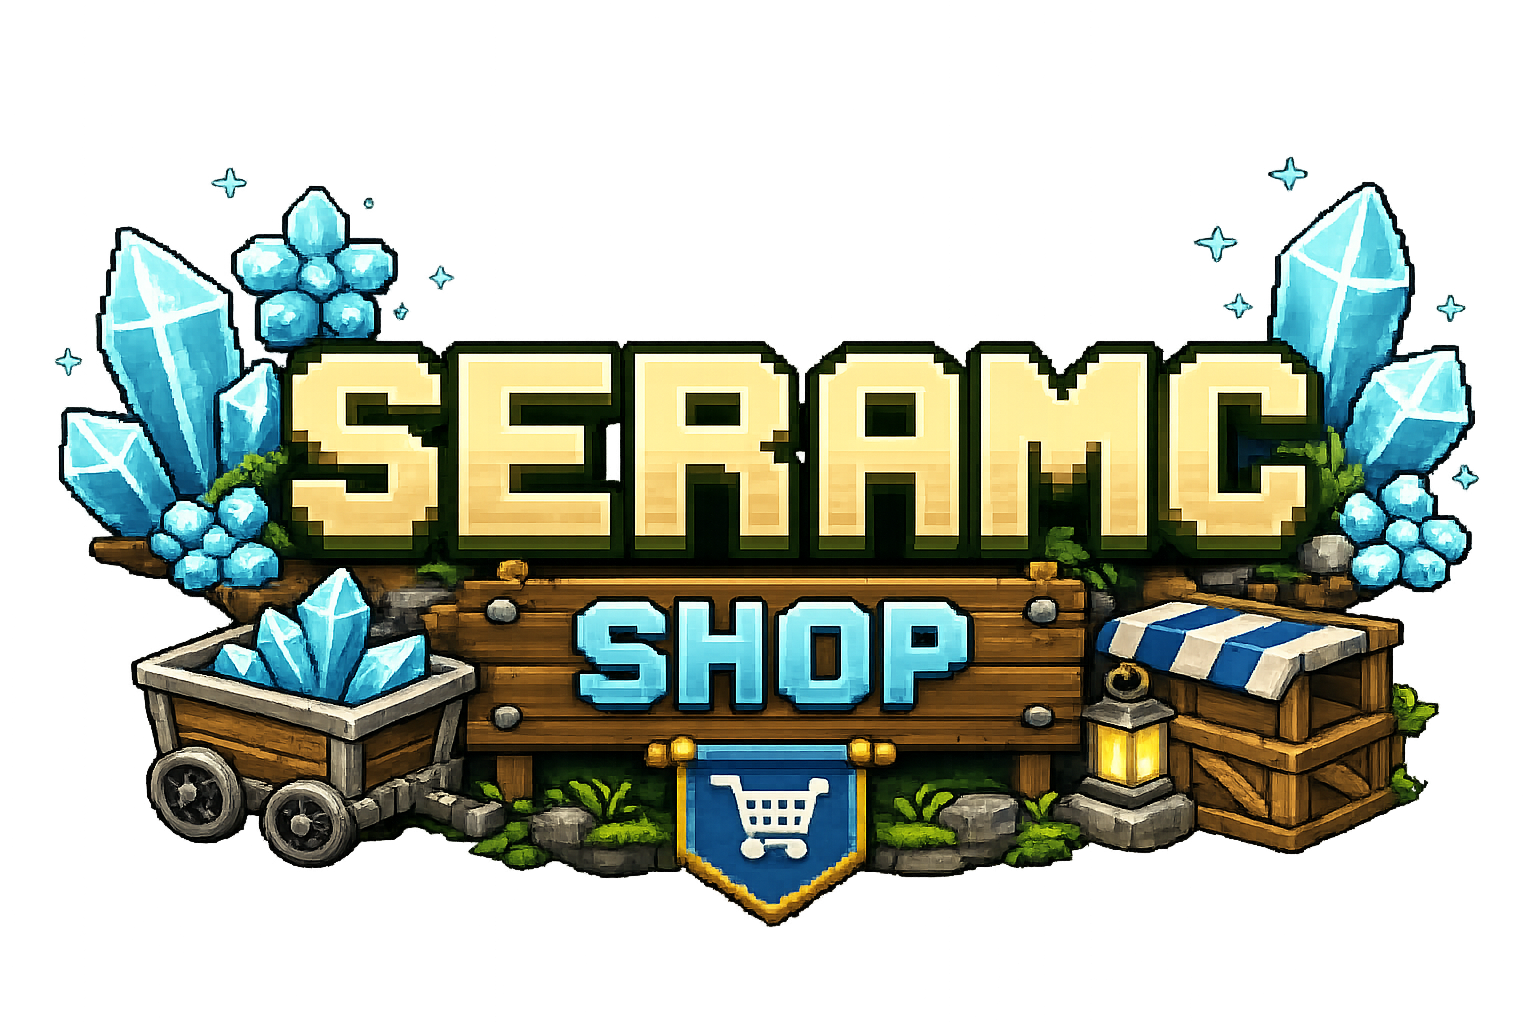
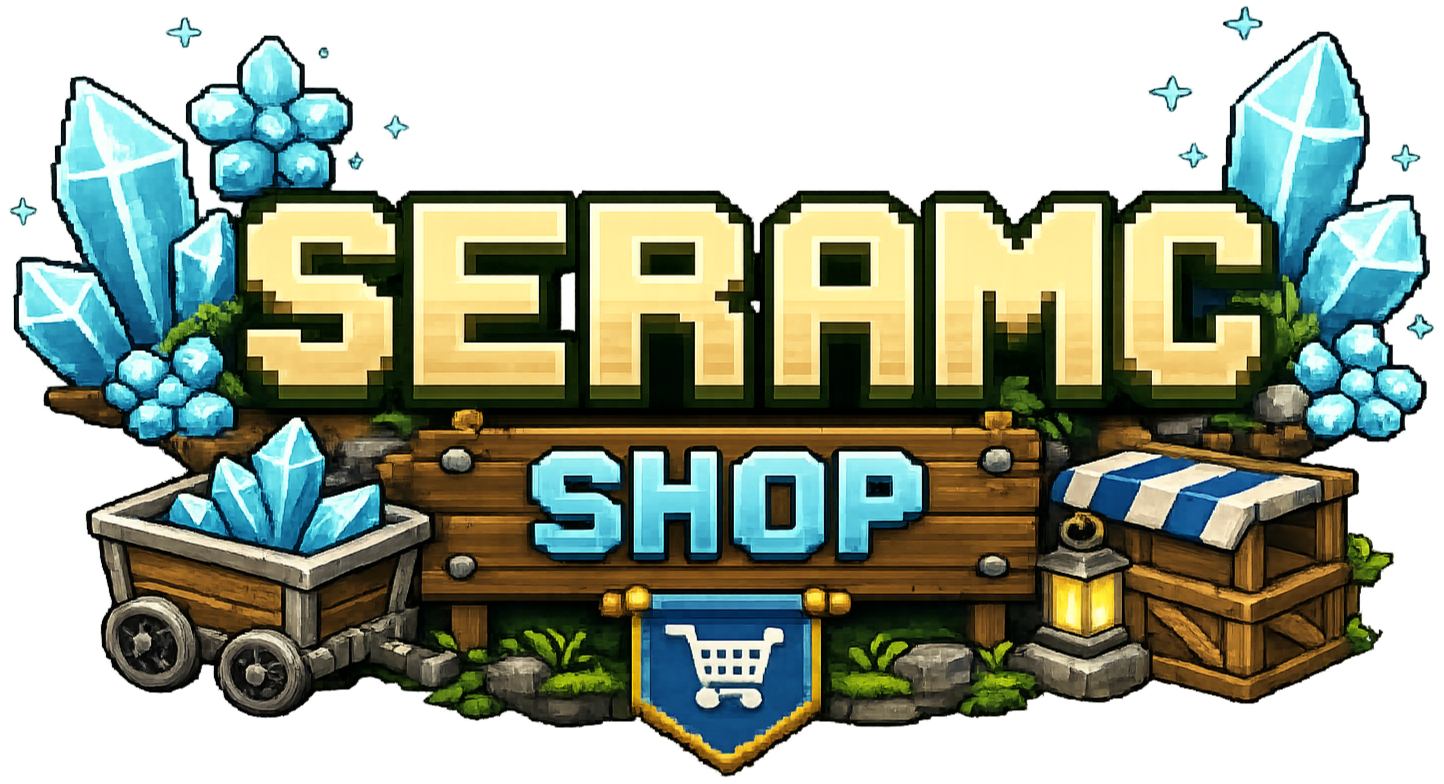
feat: prevent background scrolling when shop modal is open

diff --git a/components/modals/ShopModal.jsx b/components/modals/ShopModal.jsx
@@ -1,5 +1,6 @@
 'use client';
 
+import { useEffect } from 'react';
 import { ShoppingCart, Award, Shield, Trophy, Gem, Crown, Wand2, X } from 'lucide-react';
 
 const ranks = [
@@ -85,6 +86,17 @@ const ranks = [
 ];
 
 export default function ShopModal({ isOpen, onClose, onBuyRank }) {
+  useEffect(() => {
+    if (isOpen) {
+      document.body.style.overflow = 'hidden';
+    } else {
+      document.body.style.overflow = 'unset';
+    }
+    return () => {
+      document.body.style.overflow = 'unset';
+    };
+  }, [isOpen]);
+
   if (!isOpen) return null;
 
   return (